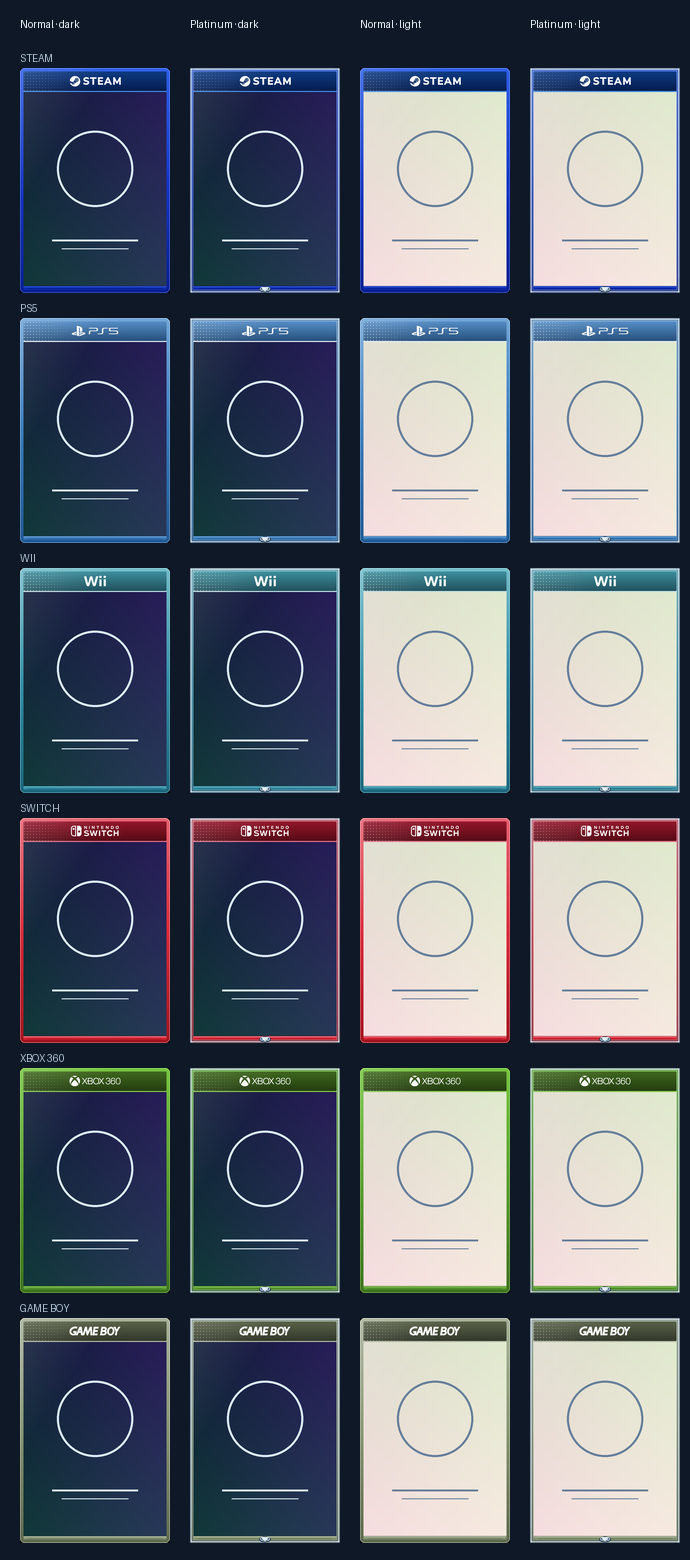
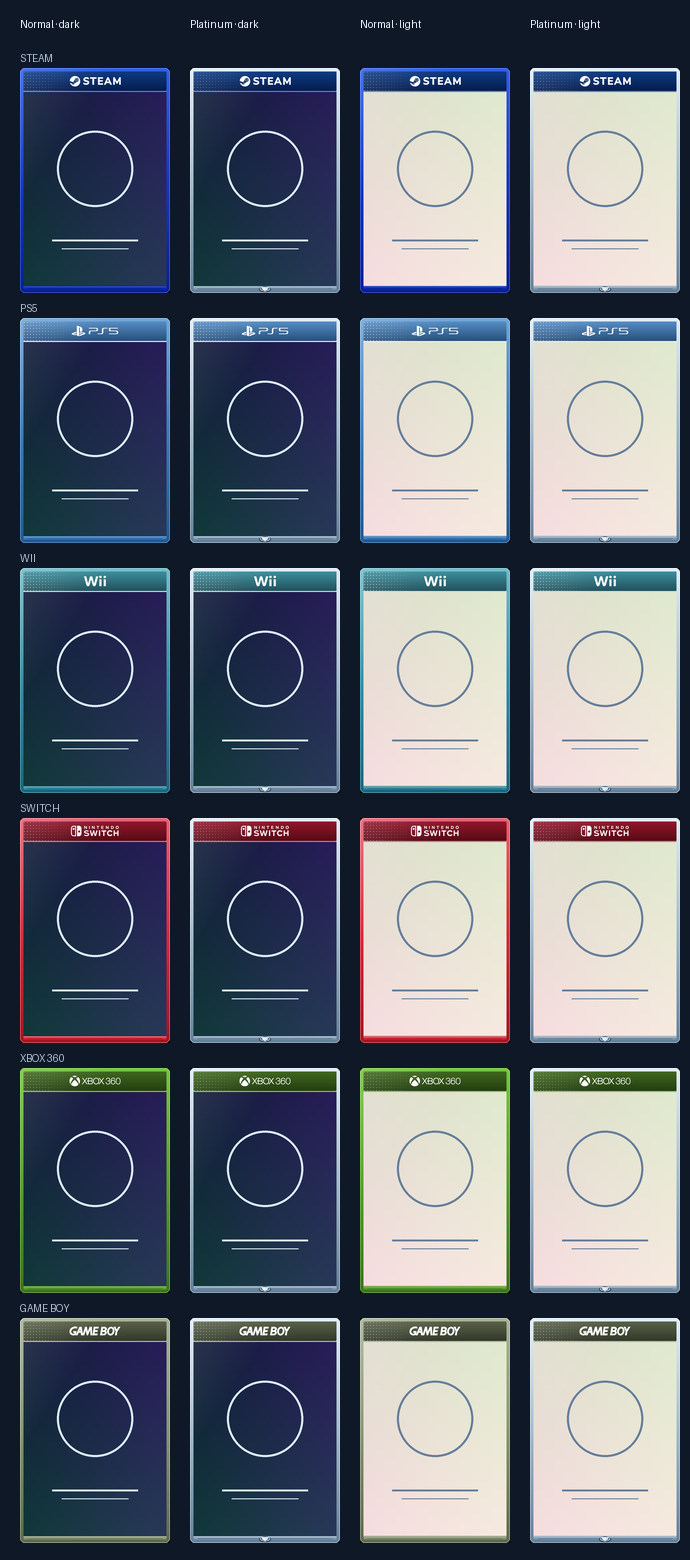
fix: reuse original case geometry for Platinum frames

diff --git a/platinum_frame.py b/platinum_frame.py
@@ -14,23 +14,6 @@ def overlay():
     def box(coords):
         return tuple(value * scale for value in coords)
 
-    # Narrow metallic bands stay outside the artwork window (x=14..585).
-    bands = (
-        (0, (65, 79, 98, 255)),
-        (2, (194, 214, 226, 255)),
-        (4, (239, 246, 250, 255)),
-        (6, (136, 162, 181, 255)),
-        (9, (76, 98, 118, 255)),
-        (11, (214, 229, 237, 230)),
-    )
-    for inset, color in bands:
-        draw.rectangle(box((inset, inset, 599 - inset, 899 - inset)),
-                       outline=color, width=scale * (2 if inset in (0, 4) else 1))
-    # Restrained icy reflection along the top and side edges.
-    draw.line(box((18, 3, 581, 3)), fill=(248, 253, 255, 215), width=scale)
-    draw.line(box((3, 22, 3, 840)), fill=(204, 230, 245, 135), width=scale)
-    draw.line(box((596, 22, 596, 840)), fill=(225, 241, 251, 115), width=scale)
-
     # One original cup silhouette, centered entirely in the lower lip.
     outline = (40, 57, 75, 255)
     metal = (226, 239, 247, 255)
@@ -54,4 +37,15 @@ def overlay():
 def apply(frame):
     if frame.size != (600, 900):
         raise ValueError("Platinum frames must be 600 x 900 pixels.")
-    return Image.alpha_composite(frame.convert("RGBA"), overlay())
+    from platform_catalog import local_asset
+    original = frame.convert("RGBA")
+    with Image.open(local_asset("assets/platinum-rim.png")) as source:
+        rim = source.convert("RGBA")
+    result = original.copy()
+    # Replace only the existing case material, retaining the exact source alpha,
+    # rounded corners, header, separator and artwork. No extra contour is drawn.
+    for region in ((0, 0, 600, 14), (0, 14, 14, 872),
+                   (586, 14, 600, 872), (0, 872, 600, 900)):
+        result.paste(rim.crop(region), region[:2])
+    result.putalpha(original.getchannel("A"))
+    return Image.alpha_composite(result, overlay())

diff --git a/tools/build_platinum_rim.py b/tools/build_platinum_rim.py
@@ -1,0 +1,26 @@
+"""Render platinum case material with the original frame SVG geometry."""
+import io
+import sys
+from pathlib import Path
+
+from PIL import Image
+import resvg_py
+
+sys.path.insert(0, str(Path(__file__).resolve().parents[1]))
+from tools.build_frame import ORIGINAL_COLORS, platform_svg, FONT
+
+
+def main():
+    palette = dict(ORIGINAL_COLORS)
+    palette.update(case_top="#e0edf5", case_mid="#a3bacb", case_bottom="#647f98",
+                   edge="#f4faff", lip_base="#829db3", lip_high="#e4f4ff",
+                   lip_shadow="#435c74")
+    data = resvg_py.svg_to_bytes(svg_string=platform_svg(palette),
+                                width=600, height=900, font_files=[FONT])
+    output = Path(__file__).resolve().parents[1] / "assets" / "platinum-rim.png"
+    Image.open(io.BytesIO(data)).save(output)
+    print(output)
+
+
+if __name__ == "__main__":
+    main()

diff --git a/tests/test_platinum.py b/tests/test_platinum.py
@@ -33,6 +33,8 @@ class PlatinumWorkflow(unittest.TestCase):
                     a, b = a.convert("RGBA"), b.convert("RGBA")
                     self.assertEqual(a.size, (600, 900))
                     self.assertEqual(b.size, (600, 900))
+                    self.assertEqual(a.getchannel("A").tobytes(), b.getchannel("A").tobytes())
+                    self.assertEqual(a.crop((14, 14, 586, 96)).tobytes(), b.crop((14, 14, 586, 96)).tobytes())
                     self.assertIsNone(ImageChops.difference(a.crop((14, 96, 586, 872)),
                                                              b.crop((14, 96, 586, 872))).getbbox())
                     self.assertIsNone(ImageChops.difference(a.crop((38, 20, 562, 84)),

diff --git a/README.md b/README.md
@@ -12,7 +12,7 @@
 ![Linux](https://img.shields.io/badge/Linux-Steam%20Deck-577bce?style=flat-square&logo=steamdeck&logoColor=e8eaf0)
 ![Python](https://img.shields.io/badge/Python-3.12-577bce?style=flat-square&logo=python&logoColor=e8eaf0)
 ![PySide6](https://img.shields.io/badge/PySide6-Qt%206-577bce?style=flat-square&logo=qt&logoColor=e8eaf0)
-![Version](https://img.shields.io/badge/version-1.5.0-83c7ee?style=flat-square)
+![Version](https://img.shields.io/badge/version-1.5.1-83c7ee?style=flat-square)
 
 [**⬇ Download**](../../releases/latest) · [Features](#features) · [Installation](#installation) · [Usage](#usage) · [Development](#development) · [Detailed notes](docs/DETAILS.md)
 

diff --git a/docs/CHANGELOG.md b/docs/CHANGELOG.md
@@ -4,6 +4,9 @@ All notable changes. Versions follow [Semantic Versioning](https://semver.org); 
 
 ## [Unreleased]
 
+## [1.5.1] - 2026-10-28
+- Corrected Platinum Edition to reuse the original SVG case geometry, rounded corners, shading and lip layers instead of drawing an extra rectangular outline. Platform headers and artwork remain pixel-identical.
+
 ## [1.5.0] - 2026-10-28
 - Added a PySide6 app with Library, Search, Batch, Backup and Settings, plus one shared Cover Editor.
 - Added 29 platform frames, SteamGridDB artwork search with OS-stored credentials, and local PNG export without Steam.
